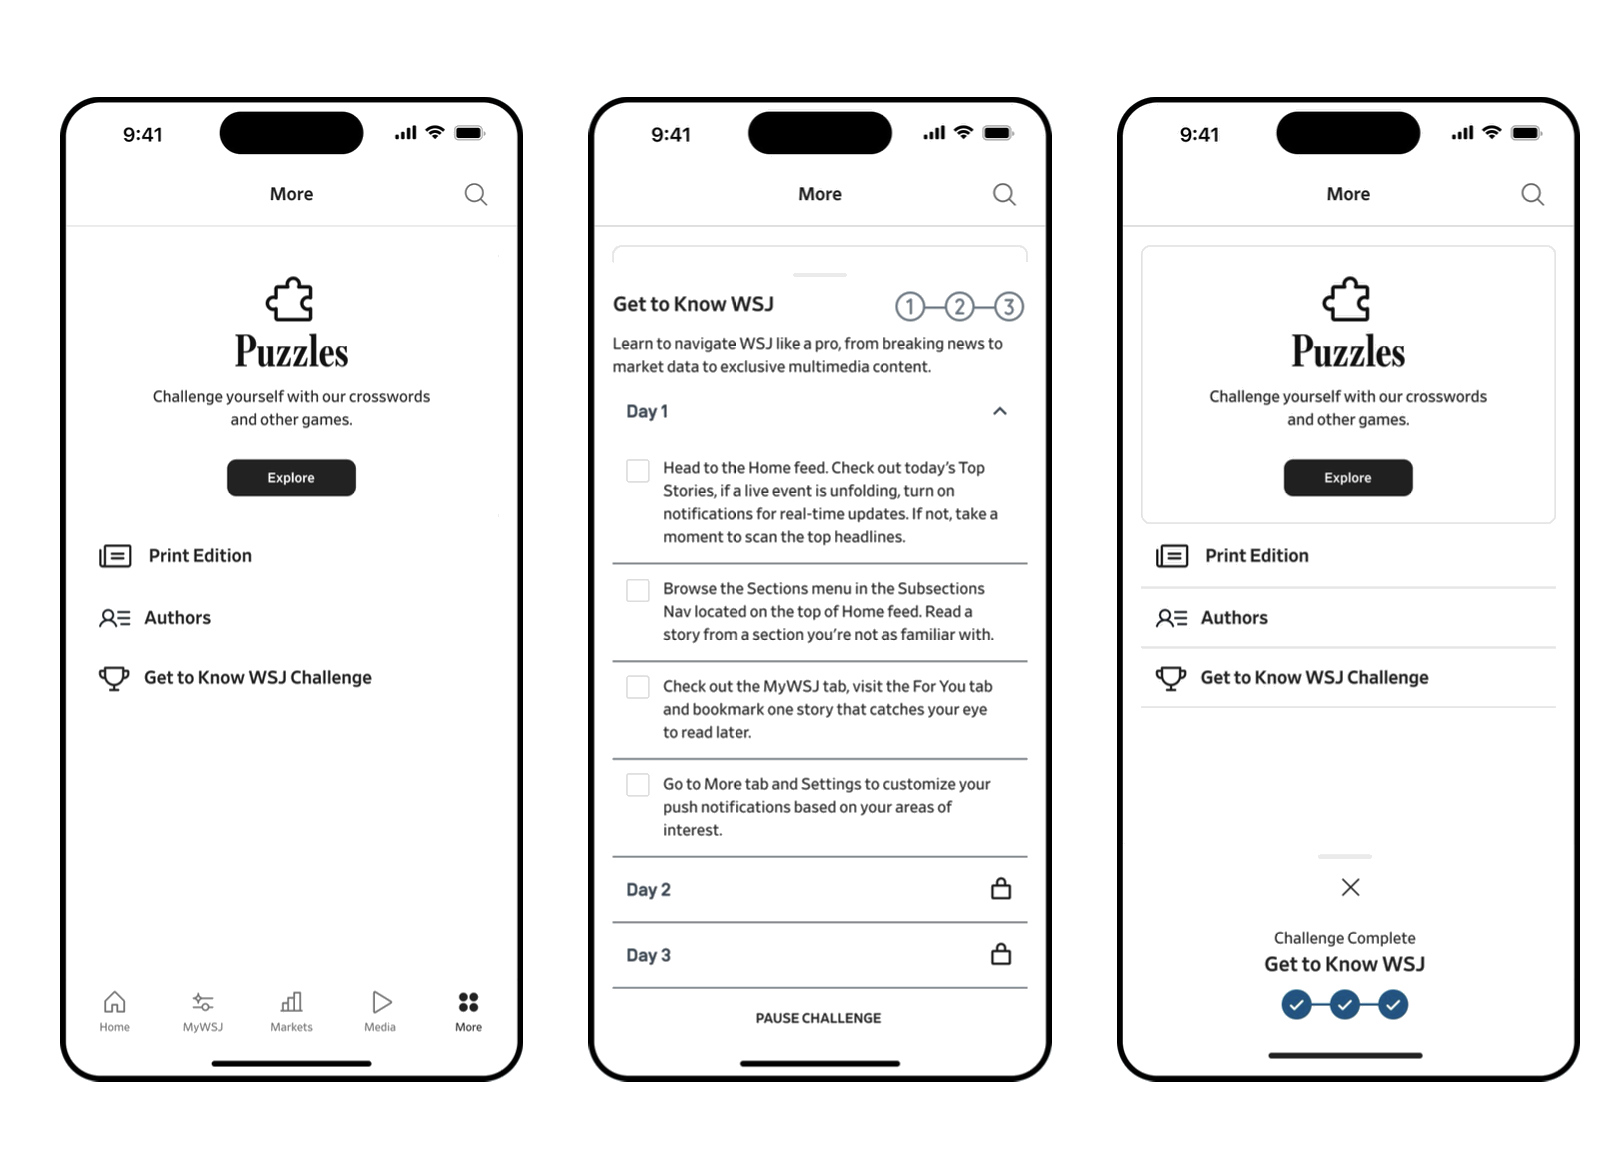
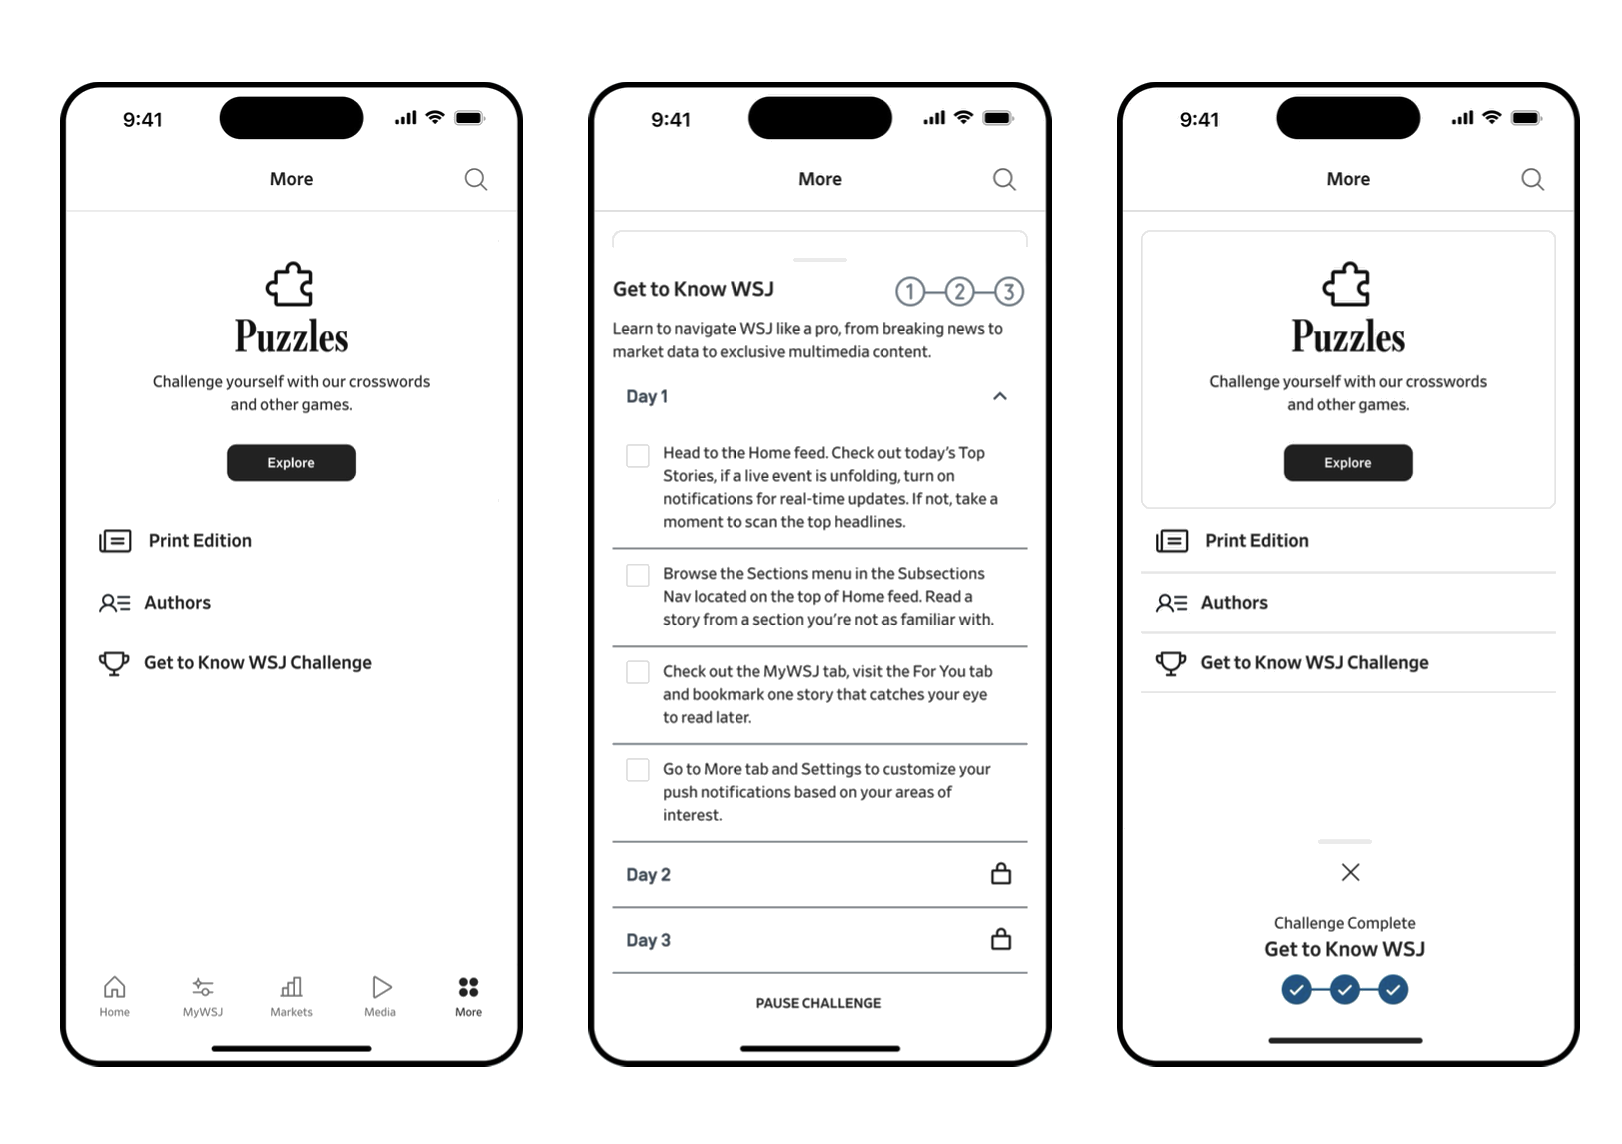
Reduce WSJ Challenges hero padding by another 15px top/bottom

diff --git a/src/app/work/wsj-challenges/page.tsx b/src/app/work/wsj-challenges/page.tsx
@@ -37,7 +37,7 @@ export default function WSJChallenges() {
           src="/work/wsj-challenges-hero.png"
           alt="Three WSJ Beta app screens: the Get to Know WSJ challenge entry point, the Day 1 checklist, and the challenge completion screen"
           caption="Challenge entry point, Day 1 checklist, and completion screen"
-          aspect="aspect-[1622/1174]"
+          aspect="aspect-[1622/1144]"
         />
 
         <TLDR>
